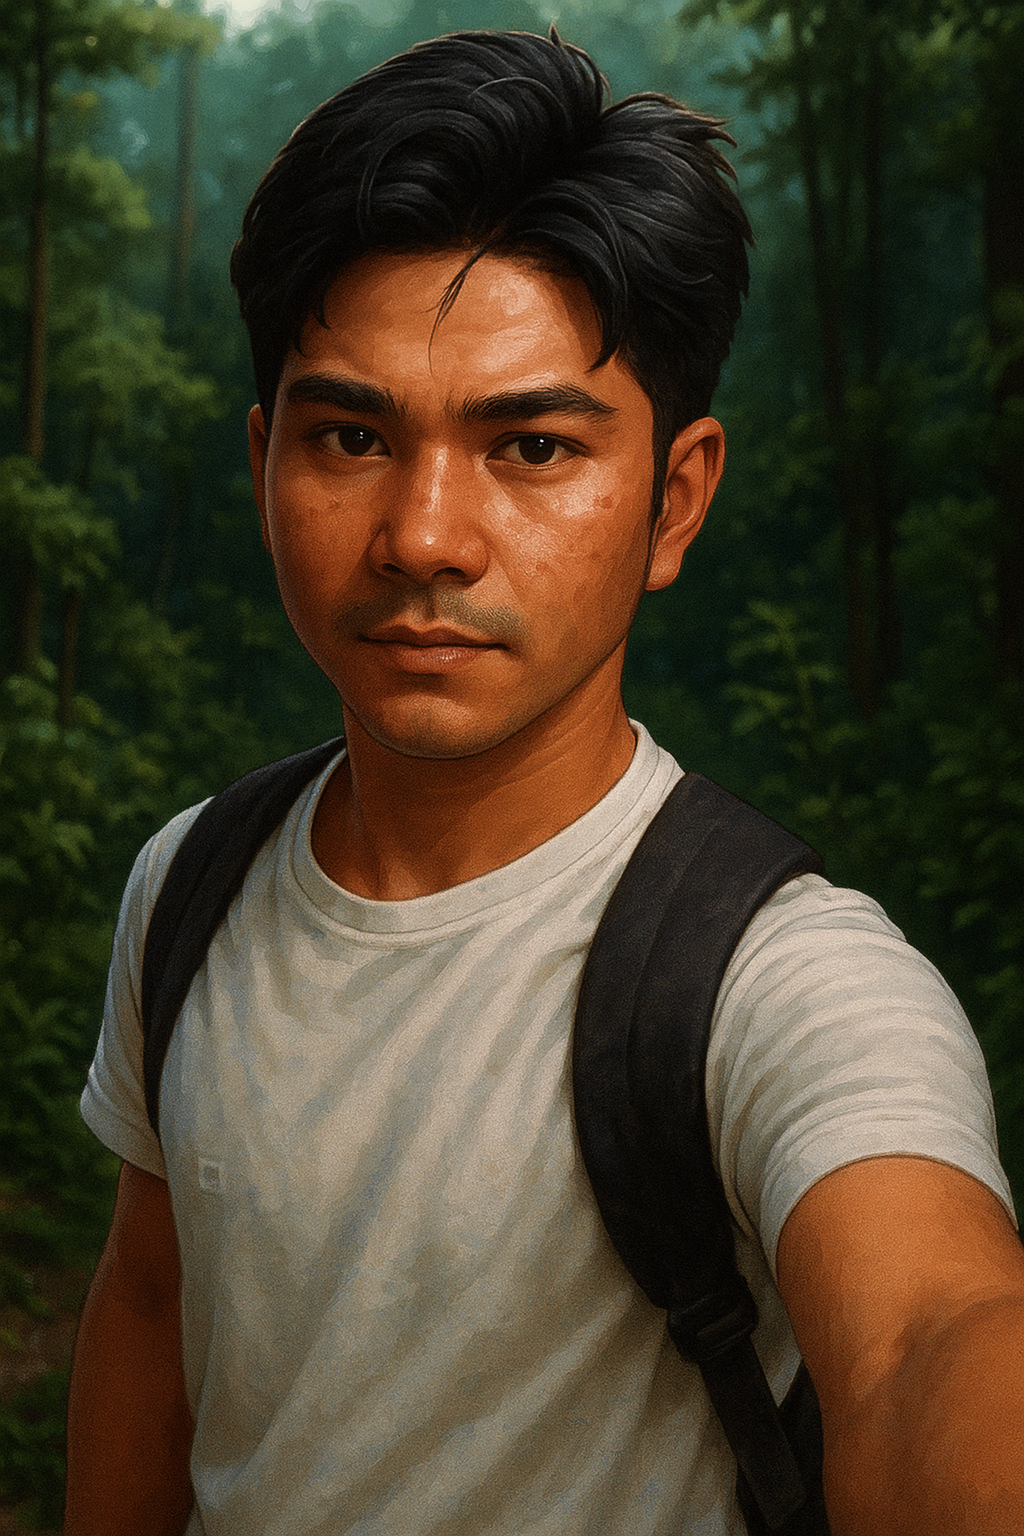
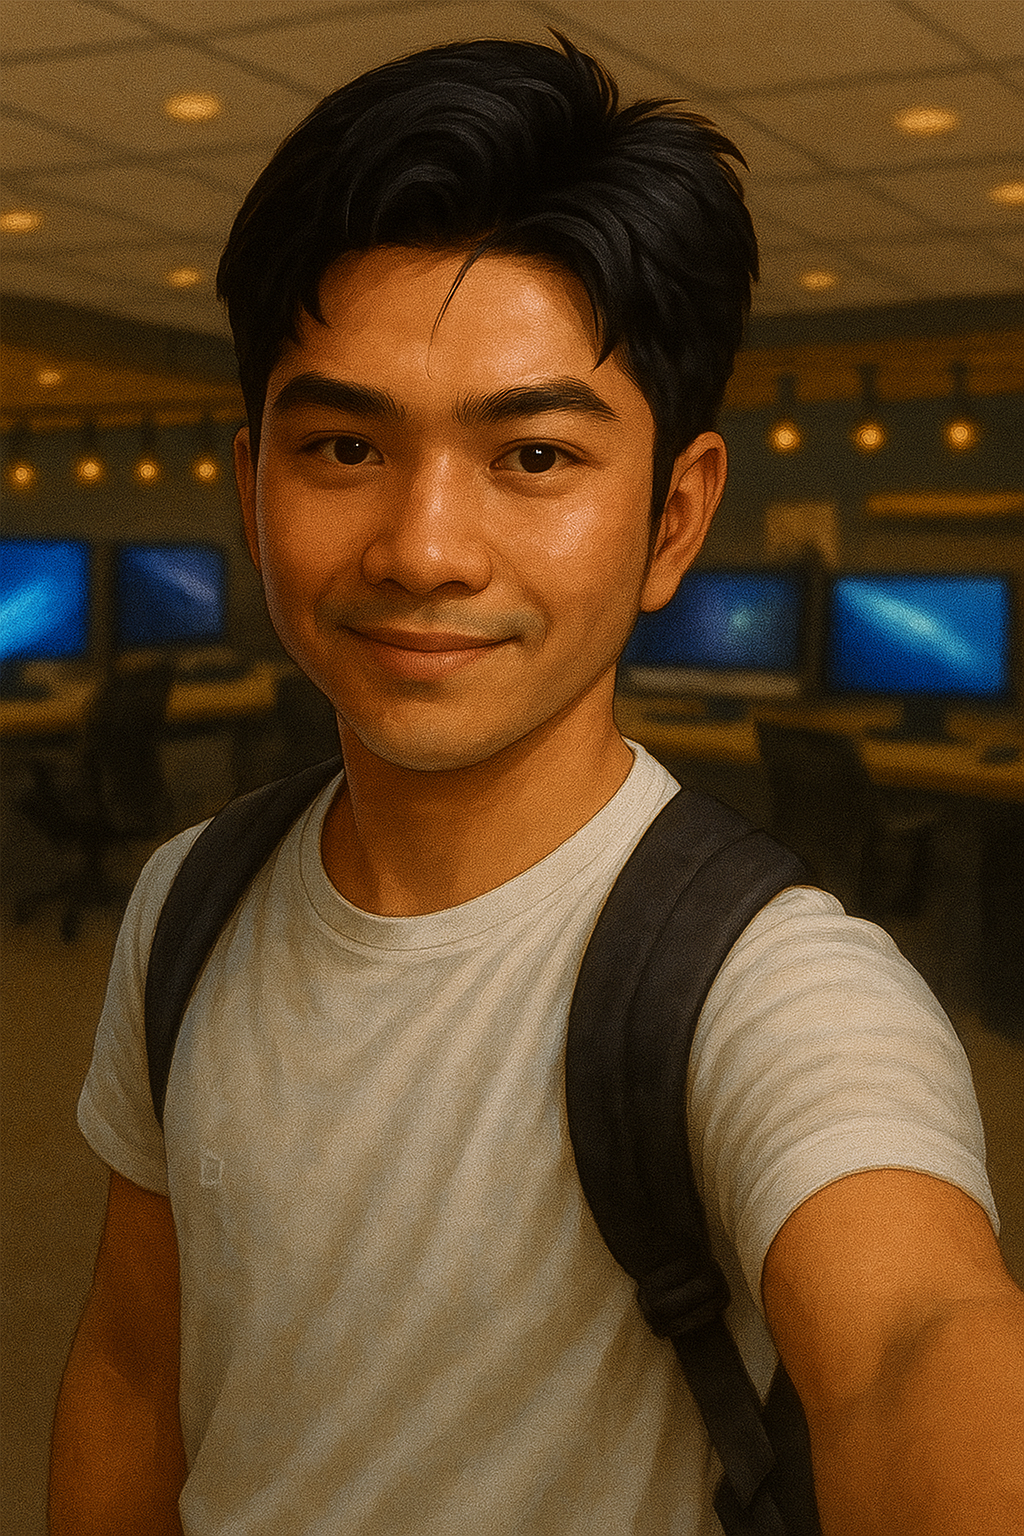
contact form completed and update certificates and work history

diff --git a/app/api/contact/route.js b/app/api/contact/route.js
@@ -1,0 +1,112 @@
+import nodemailer from "nodemailer";
+
+export async function POST(req) {
+  try {
+    const { name, email, message } = await req.json();
+
+    // Validate input
+    if (!name || !email || !message) {
+      return new Response(
+        JSON.stringify({ error: "All fields are required" }),
+        { status: 400 }
+      );
+    }
+
+    // Create transporter
+    const transporter = nodemailer.createTransport({
+      service: "gmail", // Or use "smtp"
+      auth: {
+        user: process.env.EMAIL_USER, // your Gmail address
+        pass: process.env.EMAIL_PASS, // your Gmail app password
+      },
+    });
+
+    const mailOptions = {
+      from: `"${name}" <${email}>`,
+      to: process.env.EMAIL_USER,
+      subject: "📩 New Message from Your Portfolio Contact Form",
+      html: `
+  <div style="background-color: #f3f4f6; padding: 20px; font-family: Arial, sans-serif;">
+    <table style="max-width: 600px; margin: 0 auto; background: #ffffff; border-radius: 10px; overflow: hidden; box-shadow: 0 4px 10px rgba(0,0,0,0.08);">
+      
+      <!-- HEADER -->
+      <tr>
+        <td style="background-color: #1d4ed8; text-align: center; padding: 30px 20px;">
+          <img src="https://fra.cloud.appwrite.io/v1/storage/buckets/68b402df0025e6a98f79/files/68b402f40019cb8a68cb/view?project=beb-planner&mode=admin" alt="Logo" style="max-width: 80px; border-radius: 50%; margin-bottom: 10px;" />
+          <h1 style="color: #ffffff; font-size: 24px; margin: 0;">New Contact Message</h1>
+        </td>
+      </tr>
+
+      <!-- BODY -->
+      <tr>
+        <td style="padding: 30px;">
+          <h2 style="color: #333333; font-size: 20px; margin-bottom: 15px;">You've got a new message!</h2>
+          <p style="font-size: 16px; color: #555; margin-bottom: 20px;">
+            Someone just reached out via your portfolio contact form. Here are the details:
+          </p>
+          
+          <!-- DETAILS TABLE -->
+          <table style="width: 100%; border-collapse: collapse; margin-bottom: 20px;">
+            <tr>
+              <td style="padding: 10px; background: #f9fafb; border-radius: 6px; width: 120px; font-weight: bold; color: #1f2937;">Name:</td>
+              <td style="padding: 10px; color: #333;">${name}</td>
+            </tr>
+            <tr>
+              <td style="padding: 10px; background: #f9fafb; border-radius: 6px; font-weight: bold; color: #1f2937;">Email:</td>
+              <td style="padding: 10px; color: #333;">${email}</td>
+            </tr>
+            <tr>
+              <td style="padding: 10px; background: #f9fafb; border-radius: 6px; font-weight: bold; color: #1f2937;">Message:</td>
+              <td style="padding: 10px; color: #333; white-space: pre-line;">${message}</td>
+            </tr>
+          </table>
+
+          <!-- CTA BUTTON -->
+          <div style="text-align: center; margin-top: 25px;">
+            <a href="mailto:${email}" 
+              style="display: inline-block; background: #1d4ed8; color: #fff; text-decoration: none; padding: 12px 24px; font-size: 16px; border-radius: 8px; font-weight: bold;">
+              Reply to ${name}
+            </a>
+          </div>
+        </td>
+      </tr>
+
+      <!-- FOOTER -->
+      <tr>
+        <td style="background: #f3f4f6; text-align: center; padding: 20px; font-size: 14px; color: #6b7280;">
+          <p style="margin: 0;">This email was sent from your <a href="https://www.noaligpitan.site/" style="color: #1d4ed8; text-decoration: none;">Portfolio Website</a></p>
+          <p style="margin: 5px 0;">&copy; ${new Date().getFullYear()} Noa Ligpitan. All rights reserved.</p>
+
+          <!-- SOCIAL ICONS -->
+          <div style="margin-top: 15px;">
+            <a href="https://github.com/Noah202226" style="margin: 0 8px; display: inline-block;">
+              <img src="https://cdn-icons-png.flaticon.com/512/733/733553.png" alt="GitHub" width="24" height="24" style="vertical-align: middle;" />
+            </a>
+            <a href="https://www.linkedin.com/in/noaligpitan26/" style="margin: 0 8px; display: inline-block;">
+              <img src="https://cdn-icons-png.flaticon.com/512/733/733561.png" alt="LinkedIn" width="24" height="24" style="vertical-align: middle;" />
+            </a>
+            <a href="https://x.com/Xavier26_2022" style="margin: 0 8px; display: inline-block;">
+              <img src="https://cdn-icons-png.flaticon.com/512/733/733579.png" alt="Twitter" width="24" height="24" style="vertical-align: middle;" />
+            </a>
+          </div>
+        </td>
+      </tr>
+    </table>
+  </div>
+  `,
+    };
+
+    // Send email
+    await transporter.sendMail(mailOptions);
+
+    return new Response(
+      JSON.stringify({ success: true, message: "Email sent successfully!" }),
+      { status: 200 }
+    );
+  } catch (error) {
+    console.error("Email error:", error);
+    return new Response(JSON.stringify({ error: "Failed to send email" }), {
+      status: 500,
+    });
+  }
+}

diff --git a/app/components/Contact.jsx b/app/components/Contact.jsx
@@ -1,7 +1,40 @@
 "use client";
-import { motion } from "framer-motion";
+import { motion, AnimatePresence } from "framer-motion";
+import { useState } from "react";
 
 export default function Contact() {
+  const [status, setStatus] = useState({ message: "", type: "" });
+
+  const handleSubmit = async (e) => {
+    e.preventDefault();
+
+    const formData = new FormData(e.target);
+    const data = {
+      name: formData.get("name"),
+      email: formData.get("email"),
+      message: formData.get("message"),
+    };
+
+    setStatus({ message: "Sending...", type: "loading" });
+
+    const res = await fetch("/api/contact", {
+      method: "POST",
+      headers: { "Content-Type": "application/json" },
+      body: JSON.stringify(data),
+    });
+
+    const result = await res.json();
+
+    if (res.ok) {
+      setStatus({ message: "✅ Message sent successfully!", type: "success" });
+      e.target.reset();
+    } else {
+      setStatus({ message: `❌ ${result.error}`, type: "error" });
+    }
+
+    setTimeout(() => setStatus({ message: "", type: "" }), 5000);
+  };
+
   return (
     <section
       id="contact"
@@ -15,7 +48,6 @@ export default function Contact() {
         viewport={{ once: true }}
         className="w-full max-w-lg bg-white dark:bg-gray-800 rounded-2xl shadow-lg p-8"
       >
-        {/* Heading */}
         <motion.h2
           initial={{ opacity: 0, y: 20 }}
           whileInView={{ opacity: 1, y: 0 }}
@@ -27,20 +59,22 @@ export default function Contact() {
           Let’s work together
         </motion.h2>
 
-        {/* Form */}
         <motion.form
           initial={{ opacity: 0, y: 20 }}
           whileInView={{ opacity: 1, y: 0 }}
           transition={{ delay: 0.4, duration: 0.6 }}
           viewport={{ once: true }}
           className="space-y-4"
+          onSubmit={handleSubmit}
         >
           <div>
             <label className="block text-sm font-medium text-gray-700 dark:text-gray-300">
               Name
             </label>
             <input
+              name="name"
               type="text"
+              required
               className="mt-1 w-full rounded-lg border border-gray-300 dark:border-gray-700 
               bg-gray-50 dark:bg-gray-900 px-4 py-2 text-gray-800 dark:text-gray-200
               focus:ring-2 focus:ring-blue-500 focus:outline-none transition"
@@ -52,7 +86,9 @@ export default function Contact() {
               Email
             </label>
             <input
+              name="email"
               type="email"
+              required
               className="mt-1 w-full rounded-lg border border-gray-300 dark:border-gray-700 
               bg-gray-50 dark:bg-gray-900 px-4 py-2 text-gray-800 dark:text-gray-200
               focus:ring-2 focus:ring-blue-500 focus:outline-none transition"
@@ -64,7 +100,9 @@ export default function Contact() {
               Message
             </label>
             <textarea
+              name="message"
               rows="4"
+              required
               className="mt-1 w-full rounded-lg border border-gray-300 dark:border-gray-700 
               bg-gray-50 dark:bg-gray-900 px-4 py-2 text-gray-800 dark:text-gray-200
               focus:ring-2 focus:ring-blue-500 focus:outline-none transition"
@@ -78,6 +116,26 @@ export default function Contact() {
           >
             Send Message
           </button>
+
+          <AnimatePresence>
+            {status.message && (
+              <motion.div
+                initial={{ opacity: 0, y: 10 }}
+                animate={{ opacity: 1, y: 0 }}
+                exit={{ opacity: 0, y: -10 }}
+                transition={{ duration: 0.4 }}
+                className={`text-center mt-4 font-medium ${
+                  status.type === "success"
+                    ? "text-green-600"
+                    : status.type === "error"
+                    ? "text-red-600"
+                    : "text-gray-600"
+                }`}
+              >
+                {status.message}
+              </motion.div>
+            )}
+          </AnimatePresence>
         </motion.form>
       </motion.div>
     </section>

diff --git a/app/components/WorkExperienceAndCertificates.jsx b/app/components/WorkExperienceAndCertificates.jsx
@@ -3,31 +3,31 @@ import { motion } from "framer-motion";
 export default function ExperienceCertifications() {
   const workExperience = [
     {
-      role: "Full Stack Developer",
-      company: "Tech Solutions Inc.",
-      duration: "Jan 2022 - Present",
-      description: "Developed web applications using Next.js and Firebase.",
+      role: "Administrative Aide V - IT Officer",
+      company: "Department of Public Works and Highways - Region 4A",
+      duration: "May 2025 - Present",
+      description: "Document management, data entry, and IT support.",
     },
     {
-      role: "Frontend Developer",
-      company: "Creative Web Studio",
-      duration: "Jan 2020 - Dec 2021",
-      description: "Built responsive UI using React and TailwindCSS.",
+      role: "Technical Support",
+      company: "Caffeinas Brew & Sige go Convenience Store",
+      duration: "April 2022 - Present",
+      description: "Graphic Design, data entry, Marketing, and Cashiering.",
     },
   ];
 
   const certifications = [
     {
-      title: "Certified JavaScript Developer",
+      title: "Certified JavaScript Essentials 1",
       provider: "Udemy",
-      image: "/certificates/js-cert.png",
-      link: "#", // Optional: link to PDF or image
+      image: "/certs/javascript-essentials-1.png",
+      link: "https://www.credly.com/badges/50788011-f9bd-481d-8432-0e5873828678/public_url", // Optional: link to PDF or image
     },
     {
-      title: "React Advanced Course",
+      title: "Certified Python Essentials 1",
       provider: "Coursera",
-      image: "/certificates/react-cert.png",
-      link: "#",
+      image: "/certs/python-essentials-1.1.png",
+      link: "https://www.credly.com/badges/d523e759-670e-45aa-a6b7-75209afe5241/public_url",
     },
   ];
 
@@ -77,9 +77,9 @@ export default function ExperienceCertifications() {
                   <img
                     src={cert.image}
                     alt={cert.title}
-                    className="w-full h-32 object-cover"
+                    className="w-full h-48 p-2 object-center bg-gray-100 dark:bg-gray-700"
                   />
-                  <div className="p-4">
+                  <div className="p-2">
                     <h4 className="font-semibold">{cert.title}</h4>
                     <p className="text-sm text-gray-500">{cert.provider}</p>
                   </div>

diff --git a/app/components/Hero.jsx b/app/components/Hero.jsx
@@ -74,6 +74,7 @@ export default function Hero() {
               whileHover={{ scale: 1.3, rotate: 10 }}
               whileTap={{ scale: 0.9 }}
               className="hover:text-indigo-500 transition"
+              target="_blank"
             >
               {item.icon}
             </motion.a>

diff --git a/app/components/About.jsx b/app/components/About.jsx
@@ -18,7 +18,7 @@ export default function AboutMe() {
           className="flex justify-center"
         >
           <Image
-            src="/portfolio/4.jpg"
+            src="/NOA2.png"
             alt="About Me"
             width={300}
             height={300}
